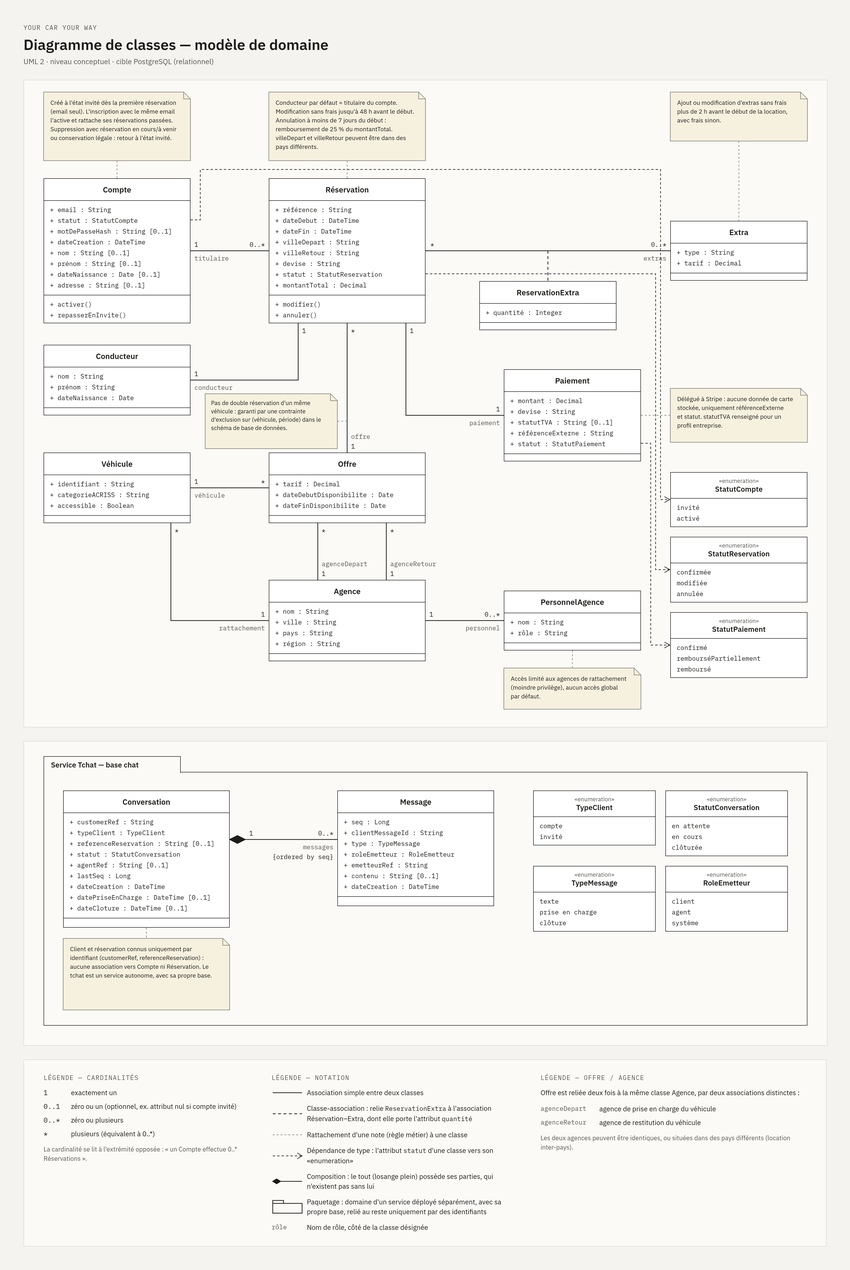
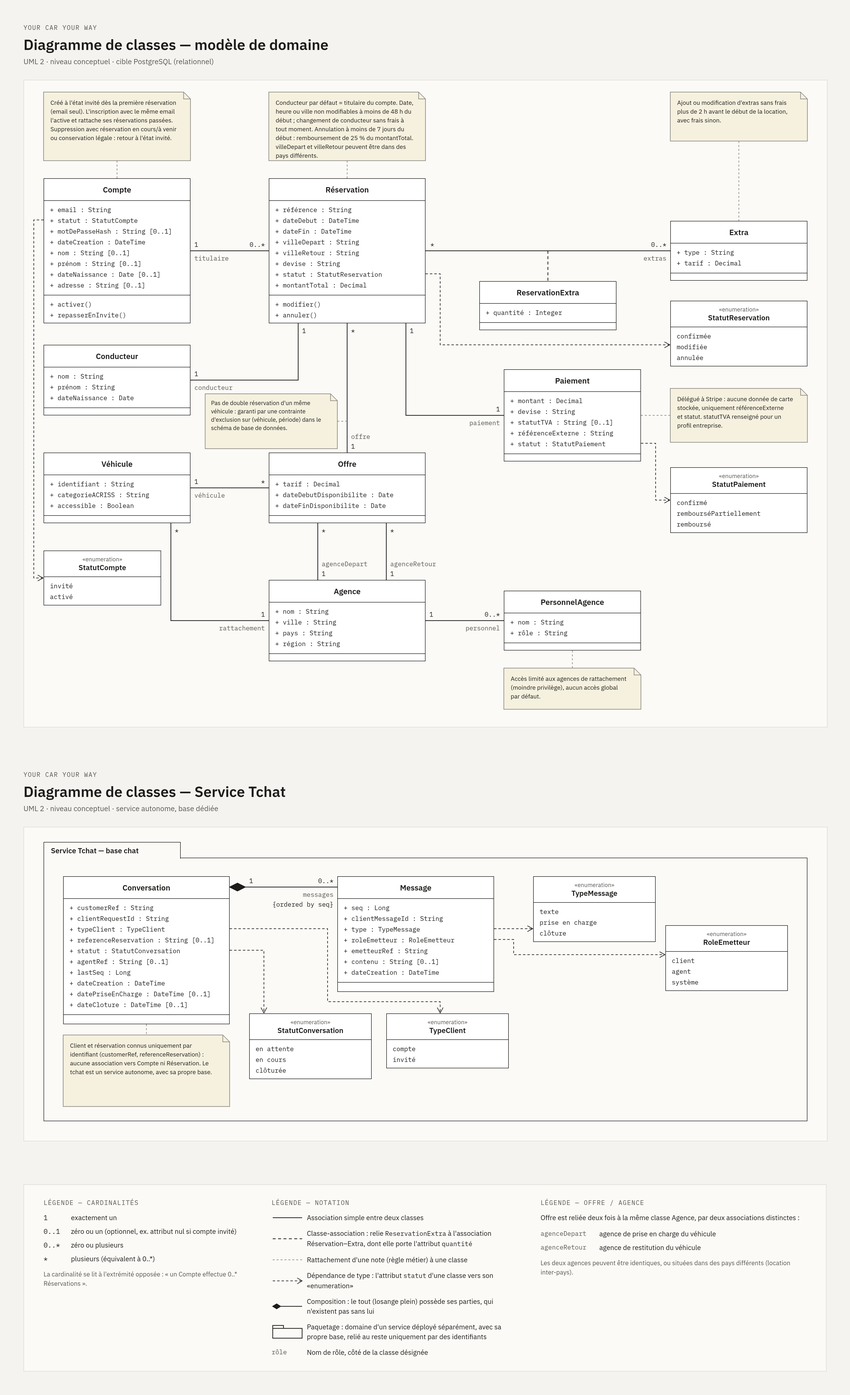
docs(diagrammes): split class diagram and redraw diagrams for A4 print

diff --git a/OC-docs_and_livrable/proposition-architecture-brouillon.md b/OC-docs_and_livrable/proposition-architecture-brouillon.md
@@ -1,6 +1,6 @@
-# Proposition d'architecture — Your Car Your Way (brouillon de travail)
+# Proposition d'architecture — Your Car Your Way
 
-> Document de travail, livrable 2. Rempli progressivement.
+> Livrable 2.
 
 ## 1. Audit de l'existant
 
@@ -25,7 +25,7 @@
 
 ### 1.2 Critères d'audit
 
-*Liste ouverte, à consolider une fois tous les critères passés en revue — un même constat peut servir plusieurs critères à la fois (ex. maintenabilité et fiabilité se recoupent sur ce système).*
+*Un même constat peut servir plusieurs critères à la fois (ex. maintenabilité et fiabilité se recoupent sur ce système).*
 
 **Maintenabilité** : la capacité du système à être compris, corrigé et fait évoluer dans le temps, sans introduire de régressions ni de divergences entre les différentes versions/déploiements.
 
@@ -54,7 +54,7 @@
 **Disponibilité**
 - Taux de disponibilité moyen (12 mois) : 97,2 % (FR/DE/ES/IT) contre 98,6-98,9 % (UK/CA/US) — écart cohérent avec des déploiements manuels/une maintenance plus lourde sur OVH (cf. Maintenabilité).
 - Redondance : aucune réplication des instances applicatives (FR/DE/ES/IT) contre réplication partielle (UK/CA) et application containerisée mais base non redondante (US) — absence de redondance = exposition plus forte en cas de panne matérielle.
-- ⚠ **Incohérence des chiffres à vérifier avec le mentor** : le taux de 97,2 % implique environ 20h d'indisponibilité mensuelle, très supérieur aux 21-28 minutes/mois indiquées plus bas (Fiabilité). Hypothèse retenue pour ce brouillon : le taux de disponibilité inclut les interruptions planifiées (maintenance, déploiements), alors que le chiffre en minutes ne couvre que les incidents non planifiés. À confirmer, et l'hypothèse elle-même reste fragile : elle impliquerait environ 20h de maintenance planifiée par mois (2,8 % de ~730h, moins ~25 min d'incidents), ce qui est très élevé même pour des déploiements manuels. Le point reste donc ouvert, et l'une des deux données de l'énoncé est peut-être erronée.
+- ⚠ **Incohérence entre deux chiffres de l'énoncé** : le taux de 97,2 % implique environ 20h d'indisponibilité mensuelle, très supérieur aux 21-28 minutes/mois indiquées plus bas (Fiabilité). Hypothèse retenue : le taux de disponibilité inclut les interruptions planifiées (maintenance, déploiements), alors que le chiffre en minutes ne couvre que les incidents non planifiés. L'hypothèse reste toutefois fragile : elle impliquerait environ 20h de maintenance planifiée par mois (2,8 % de ~730h, moins ~25 min d'incidents), ce qui est très élevé même pour des déploiements manuels. Le point reste donc ouvert, et l'une des deux données de l'énoncé est peut-être erronée.
 
 **Fiabilité**
 - Temps moyen d'indisponibilité mensuel (incidents non planifiés, cf. hypothèse ci-dessus) : 21 à 28 min (FR/DE/ES/IT) contre 7 à 16 min (UK/CA/US).
@@ -65,11 +65,11 @@
 - L'architecture est monolithique, ce qui n'est pas en soi un problème si le monolithe est bien structuré. Mais rien dans l'existant ne l'indique : le code copié/adapté entre pays, l'absence d'API interne et les schémas de données divergents suggèrent au contraire un manque de modularité — c'est ce manque de structuration, et non le choix du monolithe en lui-même, qui limite l'évolutivité actuelle.
 - Aucune base de données ou API commune entre pays : chaque marché est un silo isolé, sans fondation partagée sur laquelle étendre le système.
 - Tentatives d'évolution passées non généralisées : le Canada (React/Node, "première tentative d'unification visuelle, restée locale") et les États-Unis (seule application containerisée, "projet plus ambitieux, jamais généralisé") montrent que même les efforts de modernisation n'ont jamais dépassé le cadre d'un seul pays.
-- Scalabilité d'infrastructure : seule l'application US est containerisée — les 4 autres nécessiteraient une refonte d'infrastructure, pas seulement une configuration, pour absorber une charge croissante.
+- Scalabilité d'infrastructure : seule l'application US est containerisée — les 3 autres nécessiteraient une refonte d'infrastructure, pas seulement une configuration, pour absorber une charge croissante.
 
 **Sécurité**
-- Hashage des mots de passe : SHA-1 (FR/DE/ES/IT) — algorithme déprécié pour cet usage depuis plus d'une décennie, cassable avec du matériel courant — contre bcrypt/argon2id (UK/CA/US), standards actuels recommandés. *(à vérifier)*
-- Chiffrement du trafic : TLS 1.0 toujours utilisé (FR, IT) — protocole officiellement déprécié (RFC 8996, 2021), vulnérable à des attaques connues (BEAST, POODLE), abandonné par les navigateurs majeurs depuis 2020. *(à vérifier)*
+- Hashage des mots de passe : SHA-1 (FR/DE/ES/IT) — algorithme déprécié pour cet usage depuis plus d'une décennie, cassable avec du matériel courant — contre bcrypt/argon2id (UK/CA/US), standards actuels recommandés. *(Constat issu de la description technique fournie, non vérifié sur le code.)*
+- Chiffrement du trafic : TLS 1.0 toujours utilisé (FR, IT) — protocole officiellement déprécié (RFC 8996, 2021), vulnérable à des attaques connues (BEAST, POODLE), abandonné par les navigateurs majeurs depuis 2020. *(Constat issu de la description technique fournie, non vérifié sur le code.)*
 - Gestion des secrets : secrets stockés en fichiers de configuration sur serveur (FR/DE/ES/IT), sans rotation ni contrôle d'accès dédié — contre des approches plus structurées mais encore incomplètes ailleurs (variables d'environnement sans rotation sur UK/CA, KeyVault partiel sur US).
 - Dépendances vulnérables : 35-41 % des paquets (FR/DE/ES/IT) contre 11-22 % (UK/CA/US) — la plus grande surface d'exposition à des vulnérabilités déjà documentées.
 
@@ -84,7 +84,7 @@
 | Évolutivité | **Non validé, sur aucun des 4 systèmes** | Même les tentatives de modernisation (CA, US) ne sont jamais sorties du périmètre d'un seul pays ; absence totale de socle de données ou d'API partagé entre marchés. |
 | Sécurité | **Non validé (historique) / partiellement validé (récent)** | FR/DE/ES/IT cumulent les pratiques dépréciées (SHA-1, TLS 1.0, secrets non gérés, 35-41 % de dépendances vulnérables) ; UK/CA/US suivent de meilleures pratiques mais gardent des lacunes (pas de rotation des secrets, KeyVault partiel). |
 
-*Note sur le verdict Sécurité* : deux des constats qui le fondent (hashage SHA-1, TLS 1.0) sont marqués « à vérifier » en §1.3. Le verdict « Non validé » du socle historique tient même s'ils étaient infirmés, car il repose aussi sur des constats non contestés (secrets en fichiers de configuration sans rotation, 35-41 % de dépendances vulnérables) ; il serait en revanche à nuancer dans sa justification.
+*Note sur le verdict Sécurité* : deux des constats qui le fondent (hashage SHA-1, TLS 1.0) reposent sur la seule description technique, sans vérification sur le code (§1.3). Le verdict « Non validé » du socle historique tient même s'ils étaient infirmés, car il repose aussi sur des constats non contestés (secrets en fichiers de configuration sans rotation, 35-41 % de dépendances vulnérables) ; il serait en revanche à nuancer dans sa justification.
 
 **Synthèse** : aucun des quatre systèmes existants ne satisfait pleinement les critères retenus. Le socle historique (FR/DE/ES/IT) échoue sur la quasi-totalité d'entre eux. Les systèmes plus récents (UK, CA, US) se comportent nettement mieux sur les critères opérationnels (performance, disponibilité, fiabilité, sécurité), mais échouent eux aussi sur le critère le plus déterminant pour cette mission — l'évolutivité : aucun n'a jamais réussi à s'étendre au-delà d'un seul pays, faute de socle de données ou d'API partagé. Cela confirme qu'il ne s'agit pas de corriger ou d'étendre l'un des systèmes actuels, mais de concevoir une architecture cible commune, pensée dès le départ pour l'ensemble des marchés.
 
@@ -126,15 +126,15 @@
     1. *Vers les États-Unis* : clauses contractuelles types de la Commission européenne, intégrées à l'avenant RGPD d'AWS (Data Processing Addendum) [AWS-SCC]. AWS déclare aussi participer au EU-US Data Privacy Framework et à son extension britannique [AWS-DPF, ICO], mais ce cadre n'est pas retenu comme fondement unique : confirmé par le Tribunal de l'UE en septembre 2025, il fait l'objet d'un pourvoi devant la CJUE (C-703/25 P), et le CEPD a demandé en juillet 2026 son réexamen à la suite de la décision de la Cour suprême américaine Trump v. Slaughter [DPF-1, DPF-2].
     2. *Vers le Canada* (si le réplica est placé dans une région AWS canadienne) : décision d'adéquation de la Commission européenne, confirmée lors de sa revue de janvier 2024 [CA-ADQ].
     3. *Québec (loi 25, article 17)* : une évaluation des facteurs relatifs à la vie privée est obligatoire avant de communiquer hors du Québec des renseignements personnels qui y ont été recueillis, y compris lorsqu'ils sont confiés à un prestataire. C'est le cas ici (primaire en Europe). La Commission d'accès à l'information publie un guide et un modèle pour cette évaluation [QC-25].
-  - **Plan de repli** si un pays impose un jour une localisation : un primaire régional pour ce pays (le schéma est commun, seule la topologie change), et, pour le tchat, la bascule vers Redis pub/sub déjà documentée comme critère de réouverture (§2.2, diffusion temps réel).
-  - *Sources consultées le 22/10/2026, essentiellement secondaires (cabinets d'avocats, éditeurs, pages des fournisseurs) : à faire valider par un juriste avant mise en production.* [OPC] [Commissariat à la protection de la vie privée du Canada, lignes directrices sur le traitement transfrontalier](https://www.priv.gc.ca/en/privacy-topics/personal-information-transferred-across-borders/gl_dab_090127/) ; [Torys, 2019](https://www.torys.com/en/our-latest-thinking/publications/2019/09/opc-not-changing-guidelines-on-transfers-for-processing). [AWS-SCC] [AWS Security Blog, clauses contractuelles types dans le DPA AWS](https://aws.amazon.com/blogs/security/new-standard-contractual-clauses-now-part-of-the-aws-gdpr-data-processing-addendum-for-customers). [AWS-DPF] [Amazon, participation au DPF](https://digprjsurvey.amazon.com/csad/help/node/G202135380) (statut actif à vérifier sur dataprivacyframework.gov). [ICO] [ICO, UK Extension du DPF](https://ico.org.uk/for-organisations/uk-gdpr-guidance-and-resources/international-transfers/adequacy-regulations/how-does-the-uk-extension-to-the-eu-us-data-privacy-framework-work). [DPF-1] [Skadden, 07/2026](https://www.skadden.com/insights/publications/2026/07/supreme-court-decision-raises-new-questions) ; [DPF-2] [Hunton, avis du CEPD](https://www.hunton.com/privacy-and-cybersecurity-law-blog/edpb-calls-for-review-of-eu-u-s-data-privacy-framework-after-u-s-supreme-court-decision-on-ftc-independence). [CA-ADQ] [WeirFoulds, revue de l'adéquation canadienne](https://www.weirfoulds.com/canadas-privacy-protections-stand-strong) ; [McMillan](https://mcmillan.ca/insights/publications/privacy-on-ice-canada-maintains-gdpr-adequacy-status-despite-frozen-privacy-reforms/). [QC-25] [McCarthy Tétrault, guide de la CAI sur les évaluations de la loi 25](https://www.mccarthy.ca/en/insights/blogs/techlex/quebec-privacy-regulators-guide-law-25-compliant-privacy-impact-assessments) ; [IAPP](https://iapp.org/news/a/iapp-cps-23-forthcoming-quebec-privacy-regulations-situate-province-between-canada-and-europe).
+  - **Plan de repli** si un pays impose un jour une localisation : un primaire régional pour ce pays (le schéma est commun, seule la topologie change), et, pour le tchat, l'option d'un tchat par région d'origine du client (§2.2, diffusion temps réel). Redis pub/sub ne suffirait pas : il change la diffusion des messages, pas leur lieu de stockage.
+  - *Sources consultées le 22/10/2026, essentiellement secondaires (cabinets d'avocats, éditeurs, pages des fournisseurs) : à faire valider par un juriste avant mise en production.* [OPC] [Commissariat à la protection de la vie privée du Canada, lignes directrices sur le traitement transfrontalier](https://www.priv.gc.ca/en/privacy-topics/personal-information-transferred-across-borders/gl_dab_090127/) ; [Torys, 2019](https://www.torys.com/en/our-latest-thinking/publications/2019/09/opc-not-changing-guidelines-on-transfers-for-processing). [AWS-SCC] [AWS Security Blog, clauses contractuelles types dans le DPA AWS](https://aws.amazon.com/blogs/security/new-standard-contractual-clauses-now-part-of-the-aws-gdpr-data-processing-addendum-for-customers). [AWS-DPF] [Amazon, participation au DPF](https://digprjsurvey.amazon.com/csad/help/node/G202135380) (statut actif à confirmer sur dataprivacyframework.gov avant mise en production). [ICO] [ICO, UK Extension du DPF](https://ico.org.uk/for-organisations/uk-gdpr-guidance-and-resources/international-transfers/adequacy-regulations/how-does-the-uk-extension-to-the-eu-us-data-privacy-framework-work). [DPF-1] [Skadden, 07/2026](https://www.skadden.com/insights/publications/2026/07/supreme-court-decision-raises-new-questions) ; [DPF-2] [Hunton, avis du CEPD](https://www.hunton.com/privacy-and-cybersecurity-law-blog/edpb-calls-for-review-of-eu-u-s-data-privacy-framework-after-u-s-supreme-court-decision-on-ftc-independence). [CA-ADQ] [WeirFoulds, revue de l'adéquation canadienne](https://www.weirfoulds.com/canadas-privacy-protections-stand-strong) ; [McMillan](https://mcmillan.ca/insights/publications/privacy-on-ice-canada-maintains-gdpr-adequacy-status-despite-frozen-privacy-reforms/). [QC-25] [McCarthy Tétrault, guide de la CAI sur les évaluations de la loi 25](https://www.mccarthy.ca/en/insights/blogs/techlex/quebec-privacy-regulators-guide-law-25-compliant-privacy-impact-assessments) ; [IAPP](https://iapp.org/news/a/iapp-cps-23-forthcoming-quebec-privacy-regulations-situate-province-between-canada-and-europe).
 
 **API**
 - API exposant les données (utilisateurs, réservations, véhicules...) avec opérations CRUD par domaine, pour les applications utilisées en agence (déjà requis au cahier des charges).
 
 **Paiement et fiscalité**
 - Paiement intégralement délégué à un prestataire externe (Stripe) — aucune donnée de paiement stockée.
-- Statut de TVA/exonération pour les profils entreprise, pris en charge nativement par le prestataire (Stripe Tax — à vérifier).
+- Statut de TVA/exonération pour les profils entreprise, pris en charge nativement par le prestataire (Stripe Tax : numéro de TVA du client et statut exonéré ou autoliquidation portés par le client Stripe).
 - Aucun moteur de facturation interne — reçu de paiement standard pour tous les profils.
 
 **Fiabilité et disponibilité** *(informé par l'audit, §1.3)*
@@ -174,7 +174,7 @@ Méthode : notation de 1 (mauvais) à 10 (excellent) par critère, sur l'adéqua
 
 | Critère | Spring Boot | .NET | NestJS | Laravel | Django |
 |---|---|---|---|---|---|
-| Modularité / DDD | 9 — Spring Modulith, frontières vérifiées à la compilation | 8 — assemblies + analyseurs Roslyn | 8 — modules imposés, frontières non vérifiées | 4 — aucune frontière imposée, dépend de la discipline | 4 — "apps" permettent une bonne modularité si suivies, non imposée |
+| Modularité / DDD | 9 — Spring Modulith, frontières vérifiées par un test exécuté en CI (`ApplicationModules.verify()`) | 8 — assemblies + analyseurs Roslyn | 8 — modules imposés, frontières non vérifiées | 4 — aucune frontière imposée, dépend de la discipline | 4 — "apps" permettent une bonne modularité si suivies, non imposée |
 | Support i18n | 9 — `MessageSource` intégré, mature | 9 — `System.Globalization` intégré, mature | 5 — pas de module officiel, packages tiers variables | 8 — natif, pluralisation complexe limitée | 9 — `django.utils.translation` intégré, mature |
 | Hashage de mot de passe moderne | 9 — bcrypt/argon2 par défaut recommandé | 7 — nécessite config explicite d'Identity | 5 — rien nativement, à la charge de l'équipe | 9 — bcrypt/argon2 par défaut recommandé | 8 — PBKDF2 par défaut, argon2 en option |
 | Maturité | 9 — +10 ans de prod à grande échelle | 8 — +10 ans de prod à grande échelle | 5 — le plus récent, retours limités | 7 — mûr, historiquement moindre échelle | 9 — +10 ans de prod à grande échelle |
@@ -187,7 +187,7 @@ Point de vigilance documenté : le critère « modularité/DDD » ne distingue p
 
 **Décision : Java + Spring Boot.**
 
-Justification : meilleur score sur les deux évaluations indépendantes, cohérent avec la priorité 1 (adéquation technique). Sur le critère secondaire (priorité 2, compétences déjà présentes) : l'équipe US a déjà shippé en production sur Spring Boot/Angular/Azure containerisé — seule application de l'existant containerisée — ce qui confirme à la fois une compétence déjà disponible sur ce choix et la capacité de l'organisation à adopter une nouvelle stack avec succès.
+Justification : meilleur score sur les deux évaluations indépendantes, cohérent avec la priorité 1 (adéquation technique). Sur le critère secondaire (priorité 2, compétences déjà présentes) : l'équipe US a déjà mis en production sur Spring Boot/Angular/Azure containerisé — seule application de l'existant containerisée — ce qui confirme à la fois une compétence déjà disponible sur ce choix et la capacité de l'organisation à adopter une nouvelle stack avec succès.
 
 **Choix de la base de données**
 
@@ -201,9 +201,9 @@ Méthode : même protocole que pour le choix du backend — notation indépendan
 |---|---|---|---|---|
 | ACID / intégrité transactionnelle | 9 — garanties complètes | 7 — seulement sous InnoDB strict | 9 — garanties complètes | 10 — moteur le plus éprouvé en critique |
 | Réplication régionale (réplicas en lecture) | 8 — flexible mais quelques aspérités en logique | 9 — la plus simple et éprouvée à grande échelle | 7 — Always On, performant mais coûteux à opérer | 9 — Data Guard, complet mais lourd |
-| Écosystème Spring Boot (Hibernate/Spring Data JPA) | 10 — support natif le plus riche | 9 — très bien supporté | 7 — dialecte moins prioritaire, pilote JDBC propriétaire | 6 — idem, licence à part |
+| Écosystème Spring Boot (Hibernate/Spring Data JPA) | 10 — support natif le plus riche | 9 — très bien supporté | 7 — dialecte moins prioritaire, pilote JDBC maintenu par Microsoft | 6 — idem, licence à part |
 | Maturité / fiabilité générale | 9 — décennies de prod à grande échelle | 9 — idem | 9 — idem | 10 — référence historique entreprise |
-| Richesse des types natifs (JSON, géospatial, full-text) | 10 — JSON binaire indexable, géospatial, full-text intégrés | 6 — JSON plus récent, pas de géospatial direct | 8 — couvert mais cloisonné/payant par module | 8 — idem |
+| Richesse des types natifs (JSON, géospatial, full-text) | 10 — JSON binaire indexable, géospatial, full-text intégrés | 6 — JSON plus récent, géospatial plus limité | 8 — couvert mais cloisonné/payant par module | 8 — idem |
 | **Total /50** | **46** | **40** | **40** | **43** |
 
 Points de vigilance documentés : le classement MySQL/MariaDB suppose InnoDB en mode strict (configuration moderne par défaut) — sous des réglages hérités plus permissifs, son score ACID serait plus bas. Le critère de réplication régionale est le plus débattu des cinq : MySQL reste historiquement la solution la plus simple et la plus éprouvée pour démultiplier des réplicas en lecture à grande échelle, Oracle Data Guard la plus complète mais la plus lourde à opérer, PostgreSQL la plus flexible mais avec quelques aspérités sur la réplication logique — un autre expert pourrait pondérer cet ordre différemment.
@@ -232,13 +232,13 @@ Méthode : même protocole double évaluation (interne + agent IA indépendant) 
 | Accessibilité (WCAG/RGAA) | 9 / 8 — CDK officiel, mais plus restreint | 8 / 9 — écosystème plus riche et éprouvé (React Aria, Radix), non officiel | 7 / 6 — correct, moins outillé | 8 / 7 — correct, moins outillé |
 | i18n | 9 / 7 — `@angular/localize` officiel, plus rigide | 8 / 9 — `next-intl` non officiel mais de facto standard | 8 / 9 — `vue-i18n` non officiel mais mature | 6 / 5 — outillage i18n moins mature |
 | Structure imposée / maintenabilité | 9 / 10 — la plus stricte (modules, DI, conventions CLI) | 5 / 6 — bibliothèque de rendu, pas de structure imposée | 7 / 7 — liberté d'organisation modérée | 7 / 6 — liberté d'organisation modérée |
-| Flexibilité de rendu SSR/SSG/CSR | 7 / 7 — Angular Universal, configuration plus lourde | 10 / 10 — support multi-mode le plus mature | 9 / 9 — comparable via Nuxt | 9 / 8 — comparable via SvelteKit |
+| Flexibilité de rendu SSR/SSG/CSR | 7 / 7 — `@angular/ssr`, configuration plus lourde | 10 / 10 — support multi-mode le plus mature | 9 / 9 — comparable via Nuxt | 9 / 8 — comparable via SvelteKit |
 | Maturité / écosystème | 9 / 8 — mûr, porté par Google, composants tiers plus restreints | 10 / 10 — plus grand écosystème et bassin de recrutement | 8 / 8 — communauté solide mais plus petite | 6 / 5 — le plus récent en adoption à grande échelle |
 | **Total /50 (interne / agent indépendant)** | **43 / 40** | **41 / 44** | **39 / 39** | **36 / 31** |
 
 Contrairement au backend et à la base de données, les deux évaluations indépendantes ne convergent pas sur un vainqueur net : Angular l'emporte dans la notation interne, React/Next.js dans la notation indépendante. L'écart se concentre sur deux critères :
 - **Accessibilité** : outillage officiel mais plus restreint (Angular CDK) contre écosystème de composants plus riche et éprouvé mais non officiel (React Aria, Radix).
-- **i18n** : outillage officiel mais plus rigide (`@angular/localize`) contre bibliothèque non officielle mais de facto standard et plus mature en pratique (`ngx-translate`, `next-intl`, `vue-i18n`).
+- **i18n** : outillage officiel mais plus rigide (`@angular/localize`) contre bibliothèque non officielle mais de facto standard et plus mature en pratique (`next-intl`, `vue-i18n`).
 
 Un sixième critère (performance / poids du runtime) a été testé pour tenter de départager les deux options, mais a été écarté de la décision finale : jugé trop dépendant de choix de configuration ultérieurs (Angular zoneless vs zone.js, React Server Components vs hydratation classique par les deux évaluations elles-mêmes) pour servir de critère décisif. Il est documenté ici pour traçabilité mais ne compte pas dans le total ci-dessus : Angular 5/3, React/Next.js 7/5, Vue/Nuxt 8/7, Svelte/SvelteKit 10/9 (interne / agent indépendant).
 
@@ -302,11 +302,11 @@ Critère organisationnel (priorité 2) :
 | Coût | 6 — tarification complexe, frais de sortie élevés | 6 — comparable à AWS | 7 — compute généralement un peu moins cher | 9 — nettement moins cher, notamment sur la sortie de données |
 | Compétences déjà dans l'équipe | 9 — utilisé en production (UK, CA) | 9 — utilisé en production (US, seule application containerisée de l'existant) | 1 — aucun historique | 7 — utilisé en production (FR), sur le système jugé le plus faible à l'audit |
 
-Le critère organisationnel ne renverse pas le classement technique : l'avantage de coût et de simplicité d'OVHcloud ne compense pas son retard technique sur la couverture géographique, le service PostgreSQL managé et l'outillage CI/CD/Kubernetes.
+Le critère organisationnel ne renverse pas le classement technique : l'avantage de coût et de simplicité d'OVHcloud ne compense pas son retard technique sur la couverture géographique, le service PostgreSQL managé et les plateformes de conteneurs sans cluster.
 
 **Décision : AWS.**
 
-Justification : meilleur score sur les deux évaluations indépendantes, et seul le classement est resté identique entre les deux (contrairement au choix du framework frontend) — signal de robustesse plus fort. Déjà utilisé en production sur deux des quatre systèmes existants (UK, CA), ce qui confirme une compétence déjà disponible en interne.
+Justification : meilleur score sur les deux évaluations indépendantes, et classement identique entre les deux évaluations (comme pour le backend, la base de données et l'exécution, contrairement au choix du framework frontend) — signal de robustesse. Déjà utilisé en production sur deux des quatre systèmes existants (UK, CA), ce qui confirme une compétence déjà disponible en interne.
 
 **Choix de l'outil d'intégration et de déploiement continus (CI/CD)**
 
@@ -317,11 +317,13 @@ Candidats évalués : (A) GitHub Actions ; (B) GitLab CI ; (C) AWS CodePipeline 
 | Critère | A. GitHub Actions | B. GitLab CI | C. AWS CodePipeline | D. Jenkins |
 |---|---|---|---|---|
 | Intégration au dépôt de code (GitHub) | 10 — natif sur le dépôt GitHub déjà en place | 4 — suppose de migrer ou dupliquer le dépôt | 7 — connecteur GitHub disponible, pensé d'abord pour CodeCommit | 6 — plugin GitHub fonctionnel mais pas natif |
-| Déploiement vers ECR / ECS Fargate | 8 — actions communautaires matures, non officielles AWS | 8 — équivalent, intégration AWS via plugin | 10 — natif, conçu pour ECS | 7 — plugins disponibles mais à maintenir soi-même |
+| Déploiement vers ECR / ECS Fargate | 9 — actions officielles maintenues par AWS (`aws-actions/*`), à assembler soi-même | 8 — équivalent, intégration AWS via plugin | 10 — natif, conçu pour ECS | 7 — plugins disponibles mais à maintenir soi-même |
 | Charge opérationnelle (service hébergé) | 9 — entièrement managé, aucune infrastructure à opérer | 8 — managé en SaaS, légèrement moins intégré à l'hébergement choisi | 9 — managé, mise à l'échelle automatique | 3 — serveur à installer, sécuriser et maintenir soi-même, la charge manuelle reprochée à l'existant |
 | Portabilité / évitement du lock-in | 6 — spécifique à GitHub, mais format YAML courant | 7 — portable, mais suppose d'adopter la plateforme GitLab | 3 — fortement couplé à l'écosystème AWS, en plus de l'hébergement | 9 — le plus portable, indépendant de tout fournisseur |
-| Maturité / écosystème | 9 — écosystème très large d'actions communautaires | 8 — mature, écosystème un peu plus restreint | 7 — plus récent, adoption moindre | 9 — le plus ancien et éprouvé, au prix de plus de plugins à gérer |
-| **Total /50** | **42** | **35** | **36** | **34** |
+| Maturité / écosystème | 9 — écosystème très large d'actions communautaires | 8 — mature, écosystème un peu plus restreint | 7 — adoption moindre, écosystème plus restreint | 9 — le plus ancien et éprouvé, au prix de plus de plugins à gérer |
+| **Total /50** | **43** | **35** | **36** | **34** |
+
+Le premier critère suppose le code hébergé sur GitHub, ce qui n'est acquis que pour le dépôt de la PoC. Sans lui, le classement ne change pas : GitHub Actions 33/40, GitLab CI 31, CodePipeline 29, Jenkins 28.
 
 Critère organisationnel (priorité 2) : GitHub Actions est déjà en service sur le dépôt de la PoC tchat (étape 4), avec deux pipelines : tests à chaque modification (`ci.yml`) et test de chaos qui coupe des instances en cours de conversation (`chaos.yml`).
 
@@ -353,15 +355,16 @@ Lecture des notes :
 - **A** ne démontre rien de l'exigence multi-instances : écarté.
 - **B et C** obligent à écrire le message à deux endroits (base, puis broker) : si l'instance tombe entre les deux, la diffusion est perdue et seule la reprise par la base la rattrape. RabbitMQ ajoute en plus un cluster à opérer, sécuriser et surveiller, disproportionné pour ce volume.
 - **D** est transactionnel : PostgreSQL ne délivre une notification que si la transaction qui l'a émise est validée. Aucune notification ne peut donc annoncer un message absent de la base, et aucune infrastructure n'est ajoutée (une connexion dédiée par instance).
+- **Portée du critère 5** : il ne note que la diffusion. Avec Redis, la diffusion ne dépend plus du primaire, mais l'enregistrement des messages, oui, puisque chaque message est écrit en base avant d'être diffusé : seul un tchat par région d'origine (ci-dessous) supprime réellement cette dépendance.
 
 **Décision : PostgreSQL `LISTEN/NOTIFY`, Redis pub/sub documenté comme alternative.**
 
 Points de vigilance documentés :
 - **Pas de bascule régionale pour le tchat.** Les notifications n'existent que sur le primaire : les réplicas en lecture ne les reçoivent pas. Les instances Tchat d'Amérique du Nord écoutent donc le primaire européen, par une connexion inter-régions directe (pas via RDS Proxy, car `LISTEN` fixe la session). Si le primaire européen tombe, le tchat s'arrête dans les deux régions — limite assumée, cohérente avec le choix d'un seul primaire faisant autorité. Les conversations des clients nord-américains sont donc stockées en Europe : même cadre juridique que le reste des données (§2.1, résidence des données), y compris l'évaluation exigée par la loi 25 pour les clients québécois.
-- **Évolution possible : un tchat par région d'origine du client.** Chaque client est rattaché à une région d'origine (Europe ou Amérique du Nord, pas une par pays : aucune obligation de localisation ne le justifie, §2.1), et ses conversations vivent dans la base `chat` de cette région, quel que soit l'endroit d'où il se connecte. Une panne du primaire européen n'arrêterait plus le tchat nord-américain, et seuls les clients en voyage paieraient la latence transatlantique. C'est possible sans toucher au monolithe, puisque le tchat ne connaît ses clients que par identifiant et possède sa propre base. En contrepartie : un second primaire PostgreSQL en Amérique du Nord dédié au tchat (`LISTEN/NOTIFY` exige un primaire), un routage par identité plutôt que par proximité (région portée par le jeton, déduite du pays de la réservation pour un invité), et une file d'agents par région. Non retenu à ce stade, au volume d'un service client et avec une latence simulée conforme à l'objectif ; à reconsidérer si une exigence de disponibilité régionale du tchat apparaît, si la latence mesurée sur un vrai réseau transatlantique dépasse l'objectif, ou si une obligation de localisation est identifiée.
-- **Limite de montée en charge.** À la validation, une transaction qui a émis `NOTIFY` prend un verrou global à l'instance PostgreSQL : les validations qui notifient sont sérialisées. C'est sans effet au débit d'un support client, mais fixe le **critère de réouverture vers Redis** : un trafic soutenu au-delà d'environ 100 messages/s par région (hypothèse à valider par mesure), un besoin de présence ou d'indicateur de saisie, ou un besoin de diffusion régionale indépendante du primaire. *(Sources : documentation PostgreSQL 17 et retours d'expérience publiés, consultés via résultats de recherche — détail et liens dans l'ADR-002 du dépôt de la PoC.)*
+- **Évolution possible : un tchat par région d'origine du client.** Chaque client est rattaché à une région d'origine (Europe ou Amérique du Nord, pas une par pays : aucune obligation de localisation ne le justifie, §2.1), et ses conversations vivent dans la base `chat` de cette région, quel que soit l'endroit d'où il se connecte. Une panne du primaire européen n'arrêterait plus le tchat nord-américain, et seuls les clients en voyage paieraient la latence transatlantique. C'est possible sans toucher au monolithe, puisque le tchat ne connaît ses clients que par identifiant et possède sa propre base. En contrepartie : un second primaire PostgreSQL en Amérique du Nord dédié au tchat (`LISTEN/NOTIFY` exige un primaire), un routage par identité plutôt que par proximité (région portée par le jeton, déduite du pays de la réservation pour un invité), et une file d'agents par région. Non retenu à ce stade, au volume d'un service client et avec une latence simulée conforme à l'objectif (< 300 ms au p95) ; à reconsidérer si une exigence de disponibilité régionale du tchat apparaît, si la latence mesurée sur un vrai réseau transatlantique dépasse l'objectif, ou si une obligation de localisation est identifiée.
+- **Limite de montée en charge.** À la validation, une transaction qui a émis `NOTIFY` prend un verrou global à l'instance PostgreSQL : les validations qui notifient sont sérialisées. C'est sans effet au débit d'un support client, mais fixe le **critère de réouverture vers Redis** : un trafic soutenu au-delà d'environ 100 messages/s par région (hypothèse à valider par mesure), un besoin de présence ou d'indicateur de saisie, ou un besoin de diffusion régionale indépendante du primaire (à combiner alors avec une base `chat` régionale, voir l'évolution ci-dessus). *(Sources : documentation PostgreSQL 17 et retours d'expérience publiés, consultés via résultats de recherche — détail et liens dans l'ADR-002 du dépôt de la PoC.)*
 
-Validation par la PoC (étape 4, mesures locales Docker Compose du 19/10/2026) : sur 2 234 messages avec 4 arrêts brutaux d'instance, 0 message perdu, dupliqué ou désordonné ; latence entre instances p95 de 18,9 ms en régime établi ; 204,3 ms en simulant une instance nord-américaine (+80 ms ajoutés sur ses connexions à la base) — à confirmer sur un vrai réseau transatlantique.
+Validation par la PoC (étape 4, mesures locales Docker Compose du 19/10/2026) : sur 2 234 messages avec 4 arrêts brutaux d'instance, 0 message perdu, dupliqué ou désordonné ; latence entre instances p95 de 18,9 ms en régime établi ; 204,3 ms en simulant une instance nord-américaine (+80 ms ajoutés sur ses connexions à la base), pour un objectif < 300 ms — à confirmer sur un vrai réseau transatlantique.
 
 ### 2.3 Modélisation UML
 
@@ -381,7 +384,11 @@ Illustre la topologie AWS cible : le même artefact applicatif (monolithe) dépl
 
 **Diagramme de classes**
 
-![Diagramme de classes](Diagrammes/diagramme-classes.png)
+![Diagramme de classes — modèle de domaine](Diagrammes/diagramme-classes-domaine.png)
+
+![Diagramme de classes — Service Tchat](Diagrammes/diagramme-classes-tchat.png)
+
+![Diagramme de classes — légende](Diagrammes/diagramme-classes-legende.png)
 
 Modélise le domaine métier central (Compte, Réservation, Conducteur, Offre, Véhicule, Agence, Extra, Paiement, PersonnelAgence) et les règles métier actées au cahier des charges (mécanisme invité/activé, conducteur distinct du réservataire, réservation inter-pays via deux rôles d'agence départ/retour, délais de modification/annulation, remboursement partiel). Sert de base au modèle de données relationnel détaillé en §2.4. Un paquetage séparé représente le domaine du Service Tchat (Conversation, Message), sans association vers le domaine du monolithe : le tchat ne connaît le client et la réservation que par leurs identifiants.
 
@@ -432,8 +439,7 @@ Traduction directe du diagramme de classes (§2.3) en schéma relationnel Postgr
 - `statut_paiement` : `confirme`, `rembourse_partiellement`, `rembourse`
 
 **Index recommandés** (usages métier directement identifiés aux user stories, §3 cahier des charges) :
-- `compte(email)` — recherche de compte à la connexion et à l'activation.
-- `reservation(reference, compte_id)` — accès invité par référence + email, et historique des réservations d'un compte.
+- `reservation(compte_id)` — historique des réservations d'un compte. La recherche de compte par email (connexion, activation) et l'accès invité par référence sont déjà couverts par les index que PostgreSQL crée pour les contraintes `UNIQUE` sur `compte(email)` et `reservation(reference)`.
 - `offre(agence_depart_id, agence_retour_id, date_debut_disponibilite, date_fin_disponibilite)` — recherche d'offre par ville/période (US "Rechercher une offre").
 - Index GiST de la contrainte d'exclusion `reservation(vehicule_id, période)` — créé par la contrainte elle-même ; sert aussi à vérifier rapidement si un véhicule est libre sur une période.
 - `vehicule(categorie_acriss, accessible)` — filtre véhicule adapté/catégorie ACRISS.
@@ -441,7 +447,7 @@ Traduction directe du diagramme de classes (§2.3) en schéma relationnel Postgr
 
 **Service Tchat (base `chat`, propre au service)**
 
-Base logique distincte, sur la même instance RDS, possédée par le seul Service Tchat (ses migrations vivent avec son code). Mêmes conventions que ci-dessus (`BIGSERIAL`, `snake_case`, énumérations natives aux valeurs en français). **Aucune clé étrangère vers la base du monolithe** : `customer_ref` et `agent_ref` reprennent l'identifiant (`sub`) du jeton JWT, `reservation_reference` est un identifiant fourni par le client.
+Base logique distincte, sur la même instance RDS, possédée par le seul Service Tchat (ses migrations vivent avec son code). Mêmes conventions que ci-dessus (`BIGSERIAL`, `snake_case`, énumérations natives aux valeurs en français), à une différence près : les noms de colonnes sont en anglais, comme dans le code de la PoC. **Aucune clé étrangère vers la base du monolithe** : `customer_ref` et `agent_ref` reprennent l'identifiant (`sub`) du jeton JWT, `reservation_reference` est un identifiant fourni par le client.
 
 | Table | Colonnes | Clés / contraintes |
 |---|---|---|

diff --git a/OC-docs_and_livrable/Diagrammes/diagramme-classes.md b/OC-docs_and_livrable/Diagrammes/diagramme-classes.md
@@ -67,7 +67,7 @@ Un **diagramme de classes UML**, représentant les entités du domaine métier, 
 **Paquetage séparé « Service Tchat »** (domaine du service indépendant, avec sa propre base `chat` — à représenter dans un cadre de paquetage UML distinct, **sans aucune association** vers les classes du monolithe ci-dessus) :
 
 - **Conversation**
-  Attributs : `customerRef` (identifiant du client, issu de son jeton), `typeClient` (compte | invité), `referenceReservation` *(nul si non précisée)*, `statut` (en attente | en cours | clôturée), `agentRef` *(nul tant que non prise en charge)*, `lastSeq` (dernier numéro de séquence attribué), `dateCreation`, `datePriseEnCharge` *(nul)*, `dateCloture` *(nul)*.
+  Attributs : `customerRef` (identifiant du client, issu de son jeton), `clientRequestId` (identifiant généré par le client, rend l'ouverture d'une conversation idempotente en cas de renvoi), `typeClient` (compte | invité), `referenceReservation` *(nul si non précisée)*, `statut` (en attente | en cours | clôturée), `agentRef` *(nul tant que non prise en charge)*, `lastSeq` (dernier numéro de séquence attribué), `dateCreation`, `datePriseEnCharge` *(nul)*, `dateCloture` *(nul)*.
   Rôle : échange entre un client (connecté ou invité) et un agent du service client. Le client et la réservation ne sont connus que par leurs **identifiants** (pas d'association vers `Compte` ni `Réservation`) : le tchat est autonome vis-à-vis du monolithe.
 
 - **Message**
